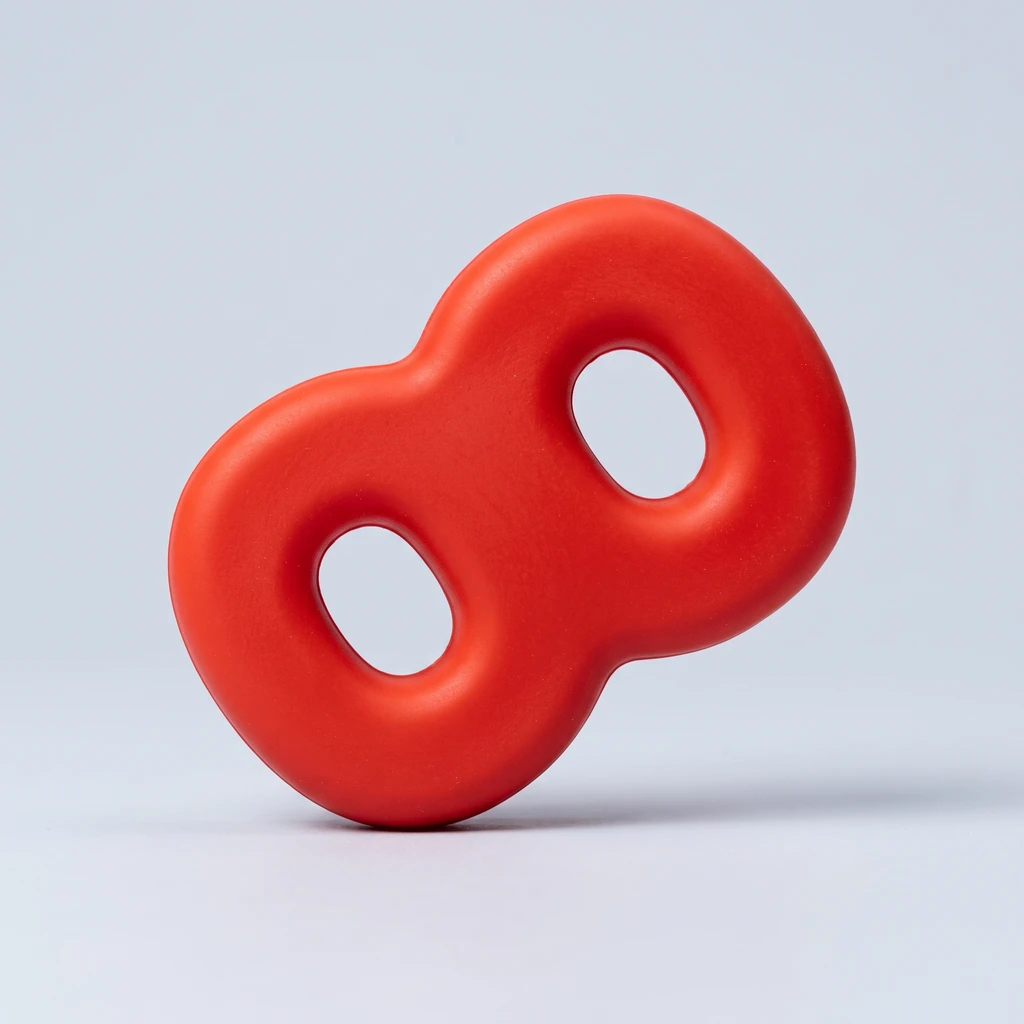
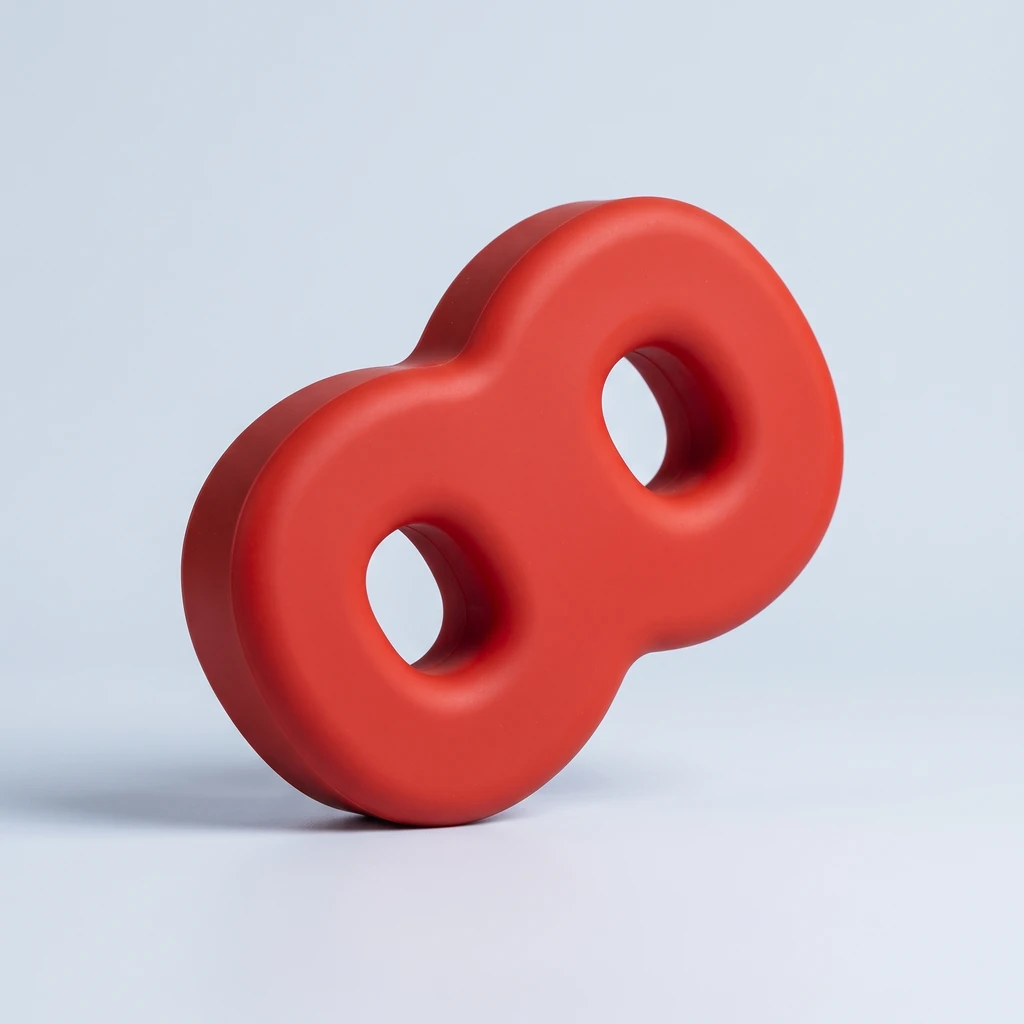
feat(web): unify Made material cards with Plump's studio setup (#94)
Regenerate the Time, Link and Carrel material cards to match Plump's card: pale blue-gray seamless backdrop, key light from the upper right with the shadow falling left, centered framing and a left three-quarter turn. Record references, prompts, candidates, export hashes and spend, and make the setup part of the Made asset contract.

Changed region(s): [[0.0, 0.1875, 1.0, 0.8125]]

diff --git a/apps/web/MADE.md b/apps/web/MADE.md
@@ -77,7 +77,7 @@ Use a stable lowercase, hyphenated product ID. All published files live in `publ
 | `<id>.svg`                 | Canonical geometric silhouette used by the product mark                                                |
 | `<id>.scene.json`          | Required when `model: true`: Plump scene schema `v1`, embedding the matching SVG and material settings |
 | `<id>.glb`                 | Required when `model: true`: export of that geometric model for download                               |
-| `<id>-material.webp`       | Square 1024 × 1024 material artwork for the index                                                      |
+| `<id>-material.webp`       | Square 1024 × 1024 material artwork for the index, matching Plump's backdrop, light, framing and turn  |
 | `<id>-hero.webp`           | Graded 1920 × 1080 landscape photograph and video poster                                               |
 | `<id>-portrait.webp`       | Separately composed, graded 1080 × 1920 mobile photograph and poster                                   |
 | `<id>-hero-motion.mp4`     | Required when `motion: true`: landscape motion clip derived from the selected landscape source         |
@@ -90,7 +90,7 @@ Generated material and campaign images interpret the geometric reference. They a
 
 ## Image and motion workflow
 
-1. **Establish the object.** Prepare the canonical SVG and, when offering a 3D viewer, its scene and GLB. Use the silhouette and chosen material as the reference for the square artwork and campaign. Check holes, connecting bridges, thickness and orientation before selecting an image.
+1. **Establish the object.** Prepare the canonical SVG and, when offering a 3D viewer, its scene and GLB. Use the silhouette and chosen material as the reference for the square artwork and campaign. Check holes, connecting bridges, thickness and orientation before selecting an image. Generate the square artwork with Plump's material card as the backdrop, light, framing and turn reference and the silhouette as the shape reference, as recorded for Time, Link and Carrel. A material reference photographed from another angle can pull the result back to that angle and light, so compare the turn and the shadow side with Plump before selecting.
 2. **Select the landscape photograph.** Keep the subject and object toward the left, with quiet scenery on the right for live text and a clear top edge for navigation. The current image pipeline used OpenRouter `google/gemini-3.1-flash-image`. Model choice may change; record what actually produced the selected image.
 3. **Compose the portrait from the selected source.** Preserve identity, clothes, object, lighting and setting. Leave roughly the upper 27% quiet for the title, keep the subject and object inside the central 80% of the width, and allow low-detail space near the bottom for controls. Treat these as composition targets and verify the real `object-fit: cover` crop at 320px. A center crop of the landscape is not the mobile deliverable.
 4. **Grade after composition is selected.** Retain ungraded source PNGs. Use [`grade-made-photo.py`](../../scripts/grade-made-photo.py) for the established softness, bloom, lifted blacks and seeded grain. Export its graded PNG as WebP with quality 90 and method 6. Never feed an already graded image through the finish again.

diff --git a/apps/web/public/made/identities/README.md b/apps/web/public/made/identities/README.md
@@ -7,6 +7,7 @@ For new products, follow the [Made publishing guide](../../../MADE.md) and [prod
 - Each product owns a geometric SVG. Products with `model: true` embed the same outline in their Plump `scene.json` (v1) and exported GLB. Carrel does not offer a 3D model. The parent zyx mark remains the site signature.
 - Plump uses chrome and volume, Time uses amber glass and light, Link uses vermilion silicone and connection, and Carrel uses cobalt ceramic and a sheltered workspace.
 - Material and campaign WebPs are AI art directed images generated with `google/gemini-3.1-flash-image` through OpenRouter. They interpret the supplied outlines; they are not screenshots of the renderer or photographs of actual products or customers.
+- Material cards share one studio setup, taken from Plump's card: a pale blue-gray seamless backdrop, a soft key light from the upper right with the contact shadow falling left, centered framing and a left three-quarter turn that shows the object's left side. Time, Link and Carrel were regenerated to this setup on October 3, 2026, with Plump's card as the setup reference and the SVG silhouette as the shape reference. Time and Carrel also used their previous cards as material references; Link used a written material description, because its previous card pulled the result back to a frontal, left-lit view. The generation records list the references, prompts, candidates and spend.
 - Desktop campaigns are 1920 × 1080. Mobile campaigns are separately composed 1080 × 1920 images.
 - The live model viewer loads `@workspace/3d`, the same renderer as Plump. It loads lighting from Plump only after the viewer opens. Its lighting and geometry are distinct from the generated campaign images.
 

diff --git a/apps/web/templates/made-product.md b/apps/web/templates/made-product.md
@@ -52,7 +52,7 @@ Copy this template into the product's task notes and fill it in using the [publi
 
 ## Completion checklist
 
-- [ ] Identity assets complete: SVG and square material WebP; matching scene `v1` and GLB when `model: true`.
+- [ ] Identity assets complete: SVG and a square material WebP matching Plump's material card setup; matching scene `v1` and GLB when `model: true`.
 - [ ] Landscape and portrait complete: selected source, graded WebP, motion MP4 when `motion: true`, any chapter images, inspected exports and generation record.
 - [ ] Site registration complete: `PRODUCTS`, HTML route, Markdown route, `site.json`, metadata and any Works entry.
 - [ ] Sandbox checks and Safari acceptance passed: shared layout, only 24/16/14px rendered text, 320px/1024px/desktop, keyboard, navigation, model, motion controls, reduced motion and failure fallback. Attach measurements and any remaining limitations.
